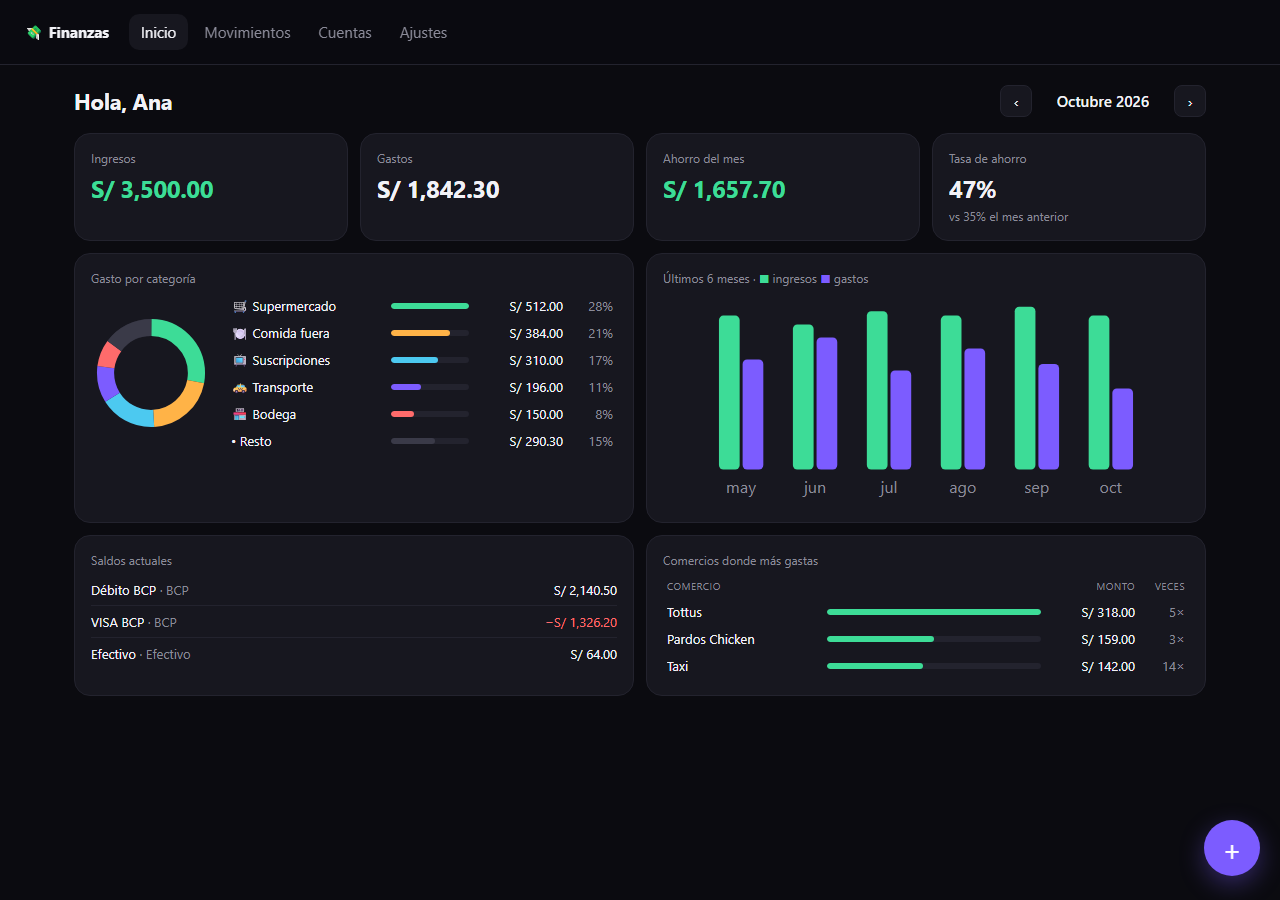
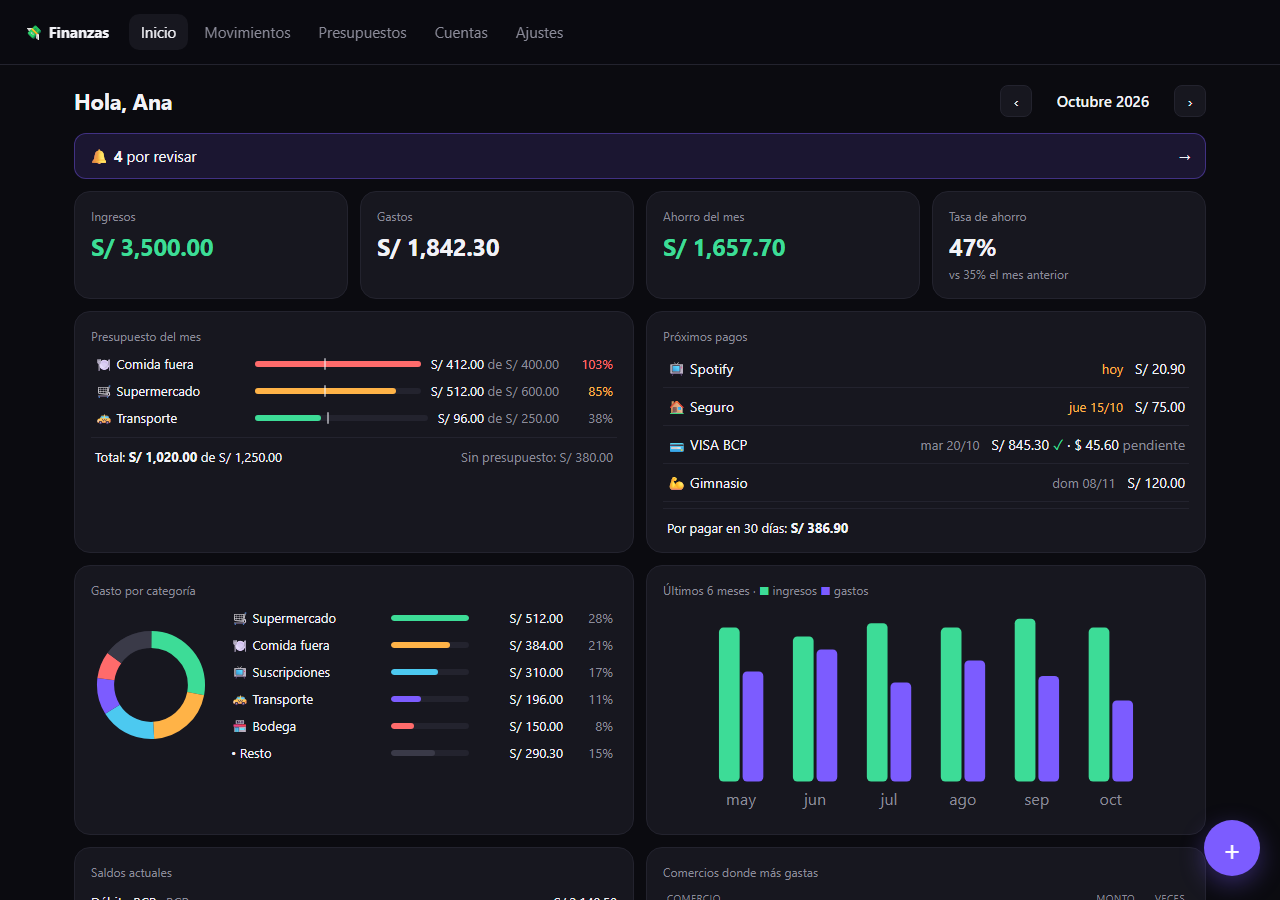
docs: plantilla, guías de instalación, Telegram y actualización, README y versión 0.7.0

diff --git a/tests/migracion.test.js b/tests/migracion.test.js
@@ -37,24 +37,24 @@ test('la migración es idempotente y no bloquea si no hace falta', () => {
 
 test('normalizarCuenta_ acepta varios números y marca de Yape', () => {
   const e = crearEntorno();
-  const c = e.llamar('normalizarCuenta_', { nombre: 'Gastos', tipo: 'debito', numeros: ' 1063,7373  1063 ', yape: true });
-  assert.strictEqual(c.numeros, '1063, 7373');
+  const c = e.llamar('normalizarCuenta_', { nombre: 'Gastos', tipo: 'debito', numeros: ' 5101,5202  5101 ', yape: true });
+  assert.strictEqual(c.numeros, '5101, 5202');
   assert.strictEqual(c.yape, true);
   assert.strictEqual(e.llamar('normalizarCuenta_', { nombre: 'E', tipo: 'efectivo' }).numeros, '');
-  assert.throws(() => e.interno('normalizarCuenta_', { nombre: 'X', tipo: 'debito', numeros: '1063, 73' }), /4 dígitos: "73"/);
-  assert.deepStrictEqual(e.llamar('numerosDe_', { numeros: '1063, 7373' }), ['1063', '7373']);
+  assert.throws(() => e.interno('normalizarCuenta_', { nombre: 'X', tipo: 'debito', numeros: '5101, 73' }), /4 dígitos: "73"/);
+  assert.deepStrictEqual(e.llamar('numerosDe_', { numeros: '5101, 5202' }), ['5101', '5202']);
 });
 
 test('guardarCuenta rechaza números repetidos entre cuentas y deja una sola cuenta de Yape', () => {
   const e = entornoInstalado();
   const deb = e.cuenta('Débito BCP');
-  e.llamar('guardarCuenta', { id: deb, nombre: 'Débito BCP', banco: 'BCP', tipo: 'debito', numeros: '1063, 7373', yape: true });
-  assert.throws(() => e.interno('guardarCuenta', { nombre: 'Otra', tipo: 'ahorro', numeros: '7373' }), /7373 ya está en la cuenta "Débito BCP"/);
-  const ahorro = e.llamar('guardarCuenta', { nombre: 'Ahorro BCP', tipo: 'ahorro', numeros: '3099', yape: true });
+  e.llamar('guardarCuenta', { id: deb, nombre: 'Débito BCP', banco: 'BCP', tipo: 'debito', numeros: '5101, 5202', yape: true });
+  assert.throws(() => e.interno('guardarCuenta', { nombre: 'Otra', tipo: 'ahorro', numeros: '5202' }), /5202 ya está en la cuenta "Débito BCP"/);
+  const ahorro = e.llamar('guardarCuenta', { nombre: 'Ahorro BCP', tipo: 'ahorro', numeros: '5303', yape: true });
   const cuentas = e.filas('Cuentas');
   assert.strictEqual(cuentas.find(c => c.id === deb).yape, false);
   assert.strictEqual(cuentas.find(c => c.id === ahorro.id).yape, true);
-  assert.doesNotThrow(() => e.interno('guardarCuenta', { id: deb, nombre: 'Débito BCP', tipo: 'debito', numeros: '1063, 7373' }));
+  assert.doesNotThrow(() => e.interno('guardarCuenta', { id: deb, nombre: 'Débito BCP', tipo: 'debito', numeros: '5101, 5202' }));
 });
 
 test('completarAsistente valida números repetidos y una sola cuenta de Yape', () => {

diff --git a/src/web/vista-cuentas.html b/src/web/vista-cuentas.html
@@ -26,7 +26,7 @@ function abrirFormCuenta(c) {
     campo('Nombre', '<input class="entrada" id="c-nombre" placeholder="Ej.: Débito BCP" value="' + esc(v.nombre) + '">') +
     '<div class="dos-col">' + campo('Banco', seleccion('c-banco', op.bancos, v.banco)) + campo('Tipo', seleccion('c-tipo', op.tiposCuenta, v.tipo, op.tiposCuenta.map(etiquetaTipo))) + '</div>' +
     '<div class="dos-col">' + campo('Moneda', seleccion('c-moneda', op.monedas, v.moneda)) +
-    campo('Números de cuenta o tarjeta', '<input class="entrada num" id="c-num" inputmode="numeric" placeholder="1063, 7373" value="' + esc(v.numeros) + '">') + '</div>' +
+    campo('Números de cuenta o tarjeta', '<input class="entrada num" id="c-num" inputmode="numeric" placeholder="5101, 5202" value="' + esc(v.numeros) + '">') + '</div>' +
     campo('Saldo inicial (negativo si es deuda de tarjeta)', '<input class="entrada num" id="c-saldo" inputmode="decimal" value="' + esc(v.saldo_inicial) + '">') +
     '<label class="check"><input type="checkbox" id="c-yape"' + (v.yape ? ' checked' : '') + '> Yape sale y entra de esta cuenta</label>' +
     (c ? '<label class="check"><input type="checkbox" id="c-activa"' + (v.activa ? ' checked' : '') + '> Cuenta activa</label>' : '') +

diff --git a/src/web/vista-asistente.html b/src/web/vista-asistente.html
@@ -87,7 +87,7 @@ VISTAS.asistente = async function (cont) {
         campo('Nombre', '<input class="entrada" id="w-c-nombre" placeholder="Ej.: Débito BCP">') +
         '<div class="dos-col">' + campo('Banco', seleccion('w-c-banco', op.bancos, 'BCP')) + campo('Tipo', seleccion('w-c-tipo', op.tiposCuenta, 'debito', op.tiposCuenta.map(etiquetaTipo))) + '</div>' +
         '<div class="dos-col">' + campo('Moneda', seleccion('w-c-moneda', op.monedas, 'PEN')) +
-        campo('Números de cuenta o tarjeta', '<input class="entrada num" id="w-c-num" inputmode="numeric" placeholder="1063, 7373">') + '</div>' +
+        campo('Números de cuenta o tarjeta', '<input class="entrada num" id="w-c-num" inputmode="numeric" placeholder="1234, 5678">') + '</div>' +
         campo('Saldo actual (negativo si es deuda de tarjeta)', '<input class="entrada num" id="w-c-saldo" inputmode="decimal" placeholder="0.00">') +
         '<label class="check"><input type="checkbox" id="w-c-yape"> Yape sale y entra de esta cuenta</label>' +
         '<button type="button" class="boton" id="w-c-agregar">+ Agregar cuenta</button>' +

diff --git a/src/core/catalogos.js b/src/core/catalogos.js
@@ -50,7 +50,7 @@ function normalizarCategoria_(datos, existentes, idActual) {
   };
 }
 
-// "1063,7373  1063" → "1063, 7373". Cada número: últimos 4 dígitos de una cuenta o tarjeta.
+// "5101,5202  5101" → "5101, 5202". Cada número: últimos 4 dígitos de una cuenta o tarjeta.
 function normalizarNumeros_(valor) {
   const partes = String(valor == null ? '' : valor).split(/[\s,;]+/).filter(Boolean);
   partes.forEach(n => {

diff --git a/src/core/version.js b/src/core/version.js
@@ -1,5 +1,5 @@
 // Versión de esta copia de la app. Una prueba exige que sea la de package.json.
-const VERSION_APP = '0.6.0';
+const VERSION_APP = '0.7.0';
 const URL_REPO = 'https://github.com/BrunoRioja/finanzas-personales';
 
 function partesVersion_(v) {

diff --git a/docs/superpowers/plans/2026-10-13-fase-2-ingesta-correos.md b/docs/superpowers/plans/2026-10-13-fase-2-ingesta-correos.md
@@ -68,7 +68,7 @@
 - Crear: `tests/migracion.test.js`
 
 **Interfaces:**
-- Produce: `VERSION_ESQUEMA = 2`; `RENOMBRES_ESQUEMA = { Cuentas: { ultimos4: 'numeros' } }`; `migrarEsquema_(libro)`; `migrarSiHaceFalta_() → bool` (sin bloqueo); `asegurarEsquema_()` (toma bloqueo solo si hay que migrar); `estadoActual_() → {instalado, modoDemo}` (sin migrar); `estadoInstalacion()` (migra y luego `estadoActual_`); `normalizarNumeros_(valor) → '1063, 7373'`; `numerosDe_(cuenta) → ['1063','7373']`; `validarNumerosUnicos_(cuenta, otras)` (lanza `El número N ya está en la cuenta "X".`); `normalizarCuenta_` devuelve `{nombre, banco, tipo, moneda, saldo_inicial, numeros, activa, yape}`. En el navegador: `textoNumeros(numeros) → ' · •••• 1063 · •••• 7373'`.
+- Produce: `VERSION_ESQUEMA = 2`; `RENOMBRES_ESQUEMA = { Cuentas: { ultimos4: 'numeros' } }`; `migrarEsquema_(libro)`; `migrarSiHaceFalta_() → bool` (sin bloqueo); `asegurarEsquema_()` (toma bloqueo solo si hay que migrar); `estadoActual_() → {instalado, modoDemo}` (sin migrar); `estadoInstalacion()` (migra y luego `estadoActual_`); `normalizarNumeros_(valor) → '5101, 5202'`; `numerosDe_(cuenta) → ['5101','5202']`; `validarNumerosUnicos_(cuenta, otras)` (lanza `El número N ya está en la cuenta "X".`); `normalizarCuenta_` devuelve `{nombre, banco, tipo, moneda, saldo_inicial, numeros, activa, yape}`. En el navegador: `textoNumeros(numeros) → ' · •••• 5101 · •••• 5202'`.
 
 - [ ] **Paso 1: Actualizar pruebas existentes al esquema v2**
 
@@ -130,24 +130,24 @@ test('la migración es idempotente y no bloquea si no hace falta', () => {
 
 test('normalizarCuenta_ acepta varios números y marca de Yape', () => {
   const e = crearEntorno();
-  const c = e.llamar('normalizarCuenta_', { nombre: 'Gastos', tipo: 'debito', numeros: ' 1063,7373  1063 ', yape: true });
-  assert.strictEqual(c.numeros, '1063, 7373');
+  const c = e.llamar('normalizarCuenta_', { nombre: 'Gastos', tipo: 'debito', numeros: ' 5101,5202  5101 ', yape: true });
+  assert.strictEqual(c.numeros, '5101, 5202');
   assert.strictEqual(c.yape, true);
   assert.strictEqual(e.llamar('normalizarCuenta_', { nombre: 'E', tipo: 'efectivo' }).numeros, '');
-  assert.throws(() => e.interno('normalizarCuenta_', { nombre: 'X', tipo: 'debito', numeros: '1063, 73' }), /4 dígitos: "73"/);
-  assert.deepStrictEqual(e.llamar('numerosDe_', { numeros: '1063, 7373' }), ['1063', '7373']);
+  assert.throws(() => e.interno('normalizarCuenta_', { nombre: 'X', tipo: 'debito', numeros: '5101, 73' }), /4 dígitos: "73"/);
+  assert.deepStrictEqual(e.llamar('numerosDe_', { numeros: '5101, 5202' }), ['5101', '5202']);
 });
 
 test('guardarCuenta rechaza números repetidos entre cuentas y deja una sola cuenta de Yape', () => {
   const e = entornoInstalado();
   const deb = e.cuenta('Débito BCP');
-  e.llamar('guardarCuenta', { id: deb, nombre: 'Débito BCP', banco: 'BCP', tipo: 'debito', numeros: '1063, 7373', yape: true });
-  assert.throws(() => e.interno('guardarCuenta', { nombre: 'Otra', tipo: 'ahorro', numeros: '7373' }), /7373 ya está en la cuenta "Débito BCP"/);
-  const ahorro = e.llamar('guardarCuenta', { nombre: 'Ahorro BCP', tipo: 'ahorro', numeros: '3099', yape: true });
+  e.llamar('guardarCuenta', { id: deb, nombre: 'Débito BCP', banco: 'BCP', tipo: 'debito', numeros: '5101, 5202', yape: true });
+  assert.throws(() => e.interno('guardarCuenta', { nombre: 'Otra', tipo: 'ahorro', numeros: '5202' }), /5202 ya está en la cuenta "Débito BCP"/);
+  const ahorro = e.llamar('guardarCuenta', { nombre: 'Ahorro BCP', tipo: 'ahorro', numeros: '5303', yape: true });
   const cuentas = e.filas('Cuentas');
   assert.strictEqual(cuentas.find(c => c.id === deb).yape, false);
   assert.strictEqual(cuentas.find(c => c.id === ahorro.id).yape, true);
-  assert.doesNotThrow(() => e.interno('guardarCuenta', { id: deb, nombre: 'Débito BCP', tipo: 'debito', numeros: '1063, 7373' }));
+  assert.doesNotThrow(() => e.interno('guardarCuenta', { id: deb, nombre: 'Débito BCP', tipo: 'debito', numeros: '5101, 5202' }));
 });
 
 test('completarAsistente valida números repetidos y una sola cuenta de Yape', () => {
@@ -273,7 +273,7 @@ Agregar al final del archivo:
 
 ```js
 
-// "1063,7373  1063" → "1063, 7373". Cada número: últimos 4 dígitos de una cuenta o tarjeta.
+// "5101,5202  5101" → "5101, 5202". Cada número: últimos 4 dígitos de una cuenta o tarjeta.
 function normalizarNumeros_(valor) {
   const partes = String(valor == null ? '' : valor).split(/[\s,;]+/).filter(Boolean);
   partes.forEach(n => {
@@ -371,13 +371,13 @@ function textoNumeros(numeros) {
 En `src/web/vista-cuentas.html` reemplazar:
 - `esc(c.banco + ' · ' + etiquetaTipo(c.tipo) + ' · ' + c.moneda + (c.ultimos4 ? ' · •••• ' + c.ultimos4 : ''))` → `esc(c.banco + ' · ' + etiquetaTipo(c.tipo) + ' · ' + c.moneda + textoNumeros(c.numeros) + (c.yape ? ' · Yape' : ''))`
 - `ultimos4: '', saldo_inicial: 0, activa: true };` → `numeros: '', saldo_inicial: 0, activa: true, yape: false };`
-- `campo('Últimos 4 dígitos', '<input class="entrada num" id="c-ult" inputmode="numeric" maxlength="4" value="' + esc(v.ultimos4) + '">') + '</div>' +` → `campo('Números de cuenta o tarjeta', '<input class="entrada num" id="c-num" inputmode="numeric" placeholder="1063, 7373" value="' + esc(v.numeros) + '">') + '</div>' +`
+- `campo('Últimos 4 dígitos', '<input class="entrada num" id="c-ult" inputmode="numeric" maxlength="4" value="' + esc(v.ultimos4) + '">') + '</div>' +` → `campo('Números de cuenta o tarjeta', '<input class="entrada num" id="c-num" inputmode="numeric" placeholder="5101, 5202" value="' + esc(v.numeros) + '">') + '</div>' +`
 - `(c ? '<label class="check"><input type="checkbox" id="c-activa"` → `'<label class="check"><input type="checkbox" id="c-yape"' + (v.yape ? ' checked' : '') + '> Yape sale y entra de esta cuenta</label>' +\n    (c ? '<label class="check"><input type="checkbox" id="c-activa"`
 - `tipo: $('#c-tipo', caja).value, moneda: $('#c-moneda', caja).value, ultimos4: $('#c-ult', caja).value,` → `tipo: $('#c-tipo', caja).value, moneda: $('#c-moneda', caja).value, numeros: $('#c-num', caja).value, yape: $('#c-yape', caja).checked,`
 
 En `src/web/vista-asistente.html` reemplazar:
 - `esc(c.banco + ' · ' + etiquetaTipo(c.tipo) + ' · ' + c.moneda + (c.ultimos4 ? ' · •••• ' + c.ultimos4 : ''))` → `esc(c.banco + ' · ' + etiquetaTipo(c.tipo) + ' · ' + c.moneda + textoNumeros(c.numeros) + (c.yape ? ' · Yape' : ''))`
-- `campo('Últimos 4 dígitos', '<input class="entrada num" id="w-c-ult" inputmode="numeric" maxlength="4">') + '</div>' +` → `campo('Números de cuenta o tarjeta', '<input class="entrada num" id="w-c-num" inputmode="numeric" placeholder="1063, 7373">') + '</div>' +`
+- `campo('Últimos 4 dígitos', '<input class="entrada num" id="w-c-ult" inputmode="numeric" maxlength="4">') + '</div>' +` → `campo('Números de cuenta o tarjeta', '<input class="entrada num" id="w-c-num" inputmode="numeric" placeholder="5101, 5202">') + '</div>' +`
 - `campo('Saldo actual (negativo si es deuda de tarjeta)', '<input class="entrada num" id="w-c-saldo" inputmode="decimal" placeholder="0.00">') +` → `campo('Saldo actual (negativo si es deuda de tarjeta)', '<input class="entrada num" id="w-c-saldo" inputmode="decimal" placeholder="0.00">') +\n        '<label class="check"><input type="checkbox" id="w-c-yape"> Yape sale y entra de esta cuenta</label>' +`
 - `moneda: $('#w-c-moneda').value, ultimos4: $('#w-c-ult').value.trim(), saldo_inicial: $('#w-c-saldo').value,` → `moneda: $('#w-c-moneda').value, numeros: $('#w-c-num').value.trim(), saldo_inicial: $('#w-c-saldo').value, yape: $('#w-c-yape').checked,`
 - `if (nueva.ultimos4 && !/^\d{4}$/.test(nueva.ultimos4)) { aviso('Los últimos 4 dígitos deben ser 4 números.', true); return; }` → `if (nueva.numeros && !/^\d{4}([\s,]+\d{4})*$/.test(nueva.numeros)) { aviso('Cada número debe tener 4 dígitos, separados por coma.', true); return; }\n      if (nueva.yape && datos.cuentas.some(c => c.yape)) { aviso('Solo una cuenta puede ser la de Yape.', true); return; }`
@@ -517,8 +517,8 @@ Expected: `"error": null`; `texto` contiene `•••• 4444 · •••• 1
 Run: `node tests/ui/ver.js "mostrar('cuentas'); setTimeout(function(){document.getElementById('nueva-cuenta').click()},300)" modal`
 Expected: `"error": null`; `texto` contiene `Números de cuenta o tarjeta` y `Yape sale y entra de esta cuenta`.
 
-Run: `node tests/ui/ver.js "document.body.classList.add('sin-instalar'); mostrar('asistente'); setTimeout(function(){ document.getElementById('w-nombre').value='Ana'; document.getElementById('w-sig').click(); setTimeout(function(){ document.getElementById('w-c-nombre').value='Débito BCP'; document.getElementById('w-c-num').value='1063, 7373'; document.getElementById('w-c-yape').checked=true; document.getElementById('w-c-agregar').click(); },100)},300)" vista`
-Expected: `"error": null`; `texto` contiene `•••• 1063 · •••• 7373 · Yape`.
+Run: `node tests/ui/ver.js "document.body.classList.add('sin-instalar'); mostrar('asistente'); setTimeout(function(){ document.getElementById('w-nombre').value='Ana'; document.getElementById('w-sig').click(); setTimeout(function(){ document.getElementById('w-c-nombre').value='Débito BCP'; document.getElementById('w-c-num').value='5101, 5202'; document.getElementById('w-c-yape').checked=true; document.getElementById('w-c-agregar').click(); },100)},300)" vista`
+Expected: `"error": null`; `texto` contiene `•••• 5101 · •••• 5202 · Yape`.
 
 - [ ] **Paso 14: Pruebas, lint y commit**
 
@@ -3016,7 +3016,7 @@ En `docs/privacidad.md`, reemplazar la sección "Próximas versiones" por:
 En `docs/instalacion.md`, después del paso 6 de la vía desarrollador agregar:
 
 ```markdown
-7. **Lectura de correos (opcional):** en **Cuentas**, pon en cada cuenta los últimos 4 dígitos de su número y de su tarjeta (por ejemplo `1063, 7373`) y marca la cuenta de la que sale Yape. Luego en **Ajustes → Lectura de correos** elige la frecuencia y toca **Guardar**: Google pedirá permiso para leer y etiquetar tus correos.
+7. **Lectura de correos (opcional):** en **Cuentas**, pon en cada cuenta los últimos 4 dígitos de su número y de su tarjeta (por ejemplo `5101, 5202`) y marca la cuenta de la que sale Yape. Luego en **Ajustes → Lectura de correos** elige la frecuencia y toca **Guardar**: Google pedirá permiso para leer y etiquetar tus correos.
 ```
 
 En `CHANGELOG.md`, agregar arriba de `## [0.1.0]`:
@@ -3058,7 +3058,7 @@ Expected: `Despliegue actualizado: AKfycbyBLby7…` (misma URL).
 - [ ] **Paso 5: Activación real con Bruno**
 
 Pedir a Bruno que abra la app (Google pedirá **autorizar de nuevo** por los permisos nuevos de Gmail y triggers) y:
-1. **Cuentas:** renombrar y completar: "Débito BCP" (Cuenta digital) → números `1063, 7373`, marcar Yape; "Ahorro BCP" (Clásica) → `3099`, sin Yape; "VISA BCP" → `8754`. Corregir los nombres invertidos de la fase 1 si aplica.
+1. **Cuentas:** renombrar y completar: "Débito BCP" (Cuenta digital) → números `5101, 5202`, marcar Yape; "Ahorro BCP" (Clásica) → `5303`, sin Yape; "VISA BCP" → `5404`. Corregir los nombres invertidos de la fase 1 si aplica.
 2. **Ajustes → Lectura de correos:** frecuencia "Cada 5 minutos", etiquetar activado, **Guardar**; luego **Importar desde la fecha** con `2026-10-01` (repetir si dice "faltan N").
 3. Revisar la franja "por revisar" en Inicio y la bandeja: categorizar algunos con "Recordar", dividir una compra.
 4. Confirmar en Gmail que los correos procesados tienen la etiqueta `Finanzas/Procesado`.

diff --git a/README.md b/README.md
@@ -3,27 +3,41 @@
 [![CI](https://github.com/BrunoRioja/finanzas-personales/actions/workflows/ci.yml/badge.svg)](https://github.com/BrunoRioja/finanzas-personales/actions/workflows/ci.yml)
 ![Licencia MIT](https://img.shields.io/badge/licencia-MIT-7c5cff)
 
-> **EN —** Self-hosted personal finance app built on Google Apps Script + Google Sheets. Each person runs their own copy in their own Google account: no servers, no shared data. Roadmap: bank-notification emails parsed automatically, a Telegram bot that only asks about what it doesn't know, and Gemini for voice notes and receipts.
+> **EN —** Self-hosted personal finance app built on Google Apps Script + Google Sheets. Each person runs their own copy in their own Google account: no servers, no shared data. It reads bank notification emails (BCP, Yape), has a Telegram bot that only asks about what it doesn't recognize, tracks monthly budgets and upcoming card and fixed payments. Install it with one "Make a copy" click. Gemini (receipts) is future work.
 
-App de finanzas personales que vive en **tu propia cuenta de Google**. Registra gastos, ingresos y transferencias, y muestra en un dashboard en qué se va tu dinero — en el celular y en la laptop.
+App de finanzas personales que vive en **tu propia cuenta de Google**: lee los correos de tu banco, te pregunta por Telegram solo lo que no reconoce y te muestra en qué se va tu dinero, cuánto llevas de tu presupuesto y qué pagos vienen.
+
+**[📄 Hacer una copia](https://docs.google.com/spreadsheets/d/ID_PLANTILLA/copy)** · 4 pasos, sin programar: [cómo instalarla](docs/instalacion.md)
 
 | Laptop | Celular |
 |---|---|
-| ![Dashboard en laptop](docs/img/dashboard-laptop.png) | ![Dashboard en celular](docs/img/dashboard-movil.png) |
+| ![Inicio en laptop](docs/img/dashboard-laptop.png) | ![Inicio en celular](docs/img/dashboard-movil.png) |
 
-## Qué hace hoy (v0.6)
+## Qué hace (v0.7)
 
-- **Lectura automática de correos** del BCP y Yape (consumos con débito y crédito en S/ y $, PLIN, yapeos enviados y recibidos, transferencias entre cuentas, pago de tarjeta, pago de servicios), cada 5 minutos o con la frecuencia que elijas.
-- **Bandeja "Por revisar"**: lo que la app no sabe categorizar se resuelve con un toque y queda como regla para la próxima vez.
-- **Bot de Telegram:** te pregunta solo por las compras que no reconoce (un toque para elegir la categoría y recordarla), registra lo que escribes (`taxi 12 yape`), responde `/hoy`, `/mes`, `/pagos` y `/deshacer`, y te manda un resumen a las 21:00 los días con movimientos.
-- **Presupuestos por categoría:** pones un monto a las categorías que quieres controlar (con lo que gastaste el mes pasado como referencia), el Inicio muestra cuánto llevas contra lo planeado y el bot te avisa al llegar al 80 % y al 100 %.
-- **Próximos pagos:** lee el correo del estado de cuenta VISA del BCP (total, mínimo y último día de pago en S/ y $), sabe qué parte ya pagaste y te recuerda por Telegram 3 días antes y el mismo día, junto con tus pagos fijos (suscripciones, gimnasio, alquiler). Bloque en el Inicio y comando `/pagos`.
-- **Dividir** una compra entre varias categorías (supermercado + aseo + ropa).
-- **Dashboard:** ingresos, gastos, ahorro y tasa de ahorro del mes; gasto por categoría; tendencia de 6 meses; saldos por cuenta; comercios donde más gastas.
-- **Movimientos:** registro rápido desde el botón **+**, filtros por mes, cuenta, categoría y texto. Gastos en soles y dólares.
-- **Cuentas y categorías** configurables; tarjetas de crédito con deuda en negativo.
-- **Asistente de instalación** que pregunta tus bancos, cuentas y categorías.
-- **Modo demo** con datos ficticios en una hoja aparte.
+- **Lee los correos de tu banco** (BCP y Yape): consumos con débito y crédito en S/ y $, PLIN, yapeos enviados y recibidos, transferencias, pagos de tarjeta y de servicios. Lo que no sabe categorizar va a una bandeja "Por revisar" y se resuelve con un toque.
+- **Bot de Telegram:** te pregunta solo por las compras que no reconoce, registra lo que escribes (`taxi 12 yape`), responde `/hoy`, `/mes`, `/pagos` y `/deshacer`, y te manda un resumen al final del día.
+- **Presupuestos por categoría:** con lo del mes pasado como referencia; el Inicio muestra cuánto llevas y el bot te avisa al 80 % y al 100 %.
+- **Próximos pagos:** lee el estado de cuenta de tu tarjeta (total, mínimo y fecha límite en S/ y $), sabe qué parte ya pagaste y te recuerda tus pagos fijos y la tarjeta 3 días antes y el mismo día.
+- **Dashboard y movimientos:** ingresos, gastos, ahorro y tasa de ahorro; gasto por categoría; tendencia de 6 meses; saldos por cuenta; comercios donde más gastas; dividir una compra entre categorías.
+- **Instalación con "Hacer una copia"**, actualización importando tus datos y **modo demo** con datos ficticios.
+
+<img src="docs/img/presupuestos-movil.png" alt="Presupuestos y pagos fijos" width="320">
+
+## Cómo funciona
+
+```mermaid
+flowchart LR
+  Gmail["Gmail<br/>(correos del banco)"] -->|trigger de lectura| Lectores["Lectores por banco<br/>(funciones puras)"]
+  Lectores --> Hoja[("Tu Google Sheet")]
+  App["App web<br/>(solo tú)"] <--> Hoja
+  Telegram -->|webhook| Receptor["Receptor público<br/>(sin datos)"]
+  Receptor -->|biblioteca| Bot["Lógica del bot"]
+  Bot <--> Hoja
+  Bot -->|avisos, resumen, recordatorios| Telegram
+```
+
+Todo corre en tu cuenta de Google: Apps Script lee tus correos, guarda en tu hoja y publica la app solo para ti. El único punto público es el receptor del bot, que no guarda nada y solo acepta mensajes con un secreto.
 
 ## Hoja de ruta
 
@@ -35,11 +49,12 @@ App de finanzas personales que vive en **tu propia cuenta de Google**. Registra 
 | v0.4 | Gemini: foto de boleta para dividir compras (a decidir con el uso real) | ⏸ |
 | v0.5 | Presupuestos por categoría y avisos por Telegram | ✅ |
 | v0.6 | Próximos pagos: estado de cuenta de la tarjeta y pagos recurrentes | ✅ |
-| v0.7 | Plantilla "Hacer una copia" y pulido del README | ⏳ |
+| v0.7 | Plantilla "Hacer una copia" y pulido del README | ✅ |
 
 ## Instalación
 
-Ver [docs/instalacion.md](docs/instalacion.md). Resumen para desarrolladores:
+- **Sin programar (recomendado):** [Hacer una copia](https://docs.google.com/spreadsheets/d/ID_PLANTILLA/copy) y seguir los 4 pasos de [docs/instalacion.md](docs/instalacion.md). El bot de Telegram es opcional: [docs/telegram.md](docs/telegram.md). Para actualizar: [docs/actualizar.md](docs/actualizar.md).
+- **Para desarrolladores (clasp):**
 
 ```bash
 git clone https://github.com/BrunoRioja/finanzas-personales.git
@@ -62,14 +77,22 @@ npm run deploy     # sube el código y publica la web app (solo tú puedes abrir
 - **Gmail con el permiso mínimo útil:** `gmail.modify` solo para buscar, leer y etiquetar; la app recuerda qué correos ya leyó por su id, no por la etiqueta.
 - **Bot sin abrir la app:** un receptor público mínimo recibe el webhook de Telegram y usa la app como biblioteca; la app y los datos siguen siendo "solo yo" ([docs/arquitectura.md](docs/arquitectura.md)).
 
+- **Copia congelada en vez de biblioteca compartida:** cada copia ejecuta su propio código; nadie (ni el autor) puede cambiarlo desde afuera. Las versiones nuevas se buscan con un botón en Ajustes y se instalan copiando la plantilla e importando los datos.
+- **Importación por encabezados:** una hoja de cualquier versión anterior se importa leyendo cada columna por su nombre; lo que no existía queda vacío y la migración completa el resto.
+
 Más detalle en [docs/arquitectura.md](docs/arquitectura.md) y el diseño completo en [docs/superpowers/specs](docs/superpowers/specs/2026-10-13-app-finanzas-design.md).
 
-## Desarrollo
+## Calidad y desarrollo
+
+- **Pruebas:** unas 250 pruebas con `node:test` sobre un arnés (`tests/harness.js`) que simula Sheets, Gmail, Telegram, triggers, propiedades y caché, así que todo el flujo (correo → movimiento → aviso por Telegram) se prueba sin tocar Google.
+- **Correos reales anonimizados** como casos de prueba de cada lector.
+- **CI** en GitHub Actions (pruebas + ESLint) en cada push.
+- **Interfaz revisada en Chrome** a 390 px y 1280 px con datos simulados.
 
 ```bash
-npm test          # pruebas (node:test)
+npm test          # pruebas
 npm run lint      # ESLint
-npm run ui -- "mostrar('movimientos')" vista captura.png 420   # revisar la interfaz en Chrome con datos simulados
+npm run ui -- "mostrar('movimientos')" vista captura.png 420   # captura de la interfaz con datos simulados
 ```
 
 ## Privacidad

diff --git a/docs/superpowers/specs/2026-10-13-fase-2-ingesta-correos-design.md b/docs/superpowers/specs/2026-10-13-fase-2-ingesta-correos-design.md
@@ -27,9 +27,9 @@ Fuera de alcance (fases siguientes): bot de Telegram (3), Gemini como respaldo d
 
 | Cuenta en la app | Números que aparecen en los correos | Uso |
 |---|---|---|
-| Débito BCP (Cuenta digital) | `1063` (cuenta) y `7373` (tarjeta de débito) | Gastos diarios, Yape, pagos virtuales, servicios. Saldo bajo. |
-| Ahorro BCP (Clásica) | `3099` | Ahorro; solo transfiere a la digital. |
-| VISA BCP | `8754` (VISA Oro) | Consumos en S/ y $. |
+| Débito BCP (Cuenta digital) | `5101` (cuenta) y `5202` (tarjeta de débito) | Gastos diarios, Yape, pagos virtuales, servicios. Saldo bajo. |
+| Ahorro BCP (Clásica) | `5303` | Ahorro; solo transfiere a la digital. |
+| VISA BCP | `5404` (VISA Oro) | Consumos en S/ y $. |
 
 Bruno corrige los nombres y números de sus cuentas desde la vista Cuentas tras desplegar la fase 2 (hoy los nombres "Débito BCP"/"Ahorro BCP" están invertidos respecto al uso).
 
@@ -39,7 +39,7 @@ Bruno corrige los nombres y números de sus cuentas desde la vista Cuentas tras 
 
 | Hoja | Cambio |
 |---|---|
-| Cuentas | `ultimos4` → **`numeros`**: lista de números de 4 dígitos separados por coma (`"1063, 7373"`). Nueva columna **`yape`** (booleano): la cuenta de la que sale/entra Yape; como máximo una. |
+| Cuentas | `ultimos4` → **`numeros`**: lista de números de 4 dígitos separados por coma (`"5101, 5202"`). Nueva columna **`yape`** (booleano): la cuenta de la que sale/entra Yape; como máximo una. |
 | Movimientos | Sin columnas nuevas. `origen = 'gmail'` para lo importado; `estado = 'por_revisar'` cuando falta categoría o cuenta; `ref_externa = 'gmail:<id del mensaje>'`. |
 | Reglas | Se usan: `patron` (texto normalizado), `categoria_id`, `creada_por` (`usuario`), `usos`. |
 | **Pendientes** (nueva) | Correos bancarios que ningún lector entendió: `id, gmail_id, fecha, remitente, asunto, resumen, estado (pendiente/descartado)`. |
@@ -68,14 +68,14 @@ Remitentes aceptados (comparación exacta, en minúsculas): `notificaciones@noti
 
 | Tipo de correo (asunto / frase clave) | Resultado |
 |---|---|
-| "Realizaste un consumo con tu Tarjeta de Débito/Crédito BCP" — frase `Realizaste un consumo de S/ 89.30 con tu Tarjeta de … BCP en <COMERCIO>.` + `Número de Tarjeta … ****7373` | gasto, `numero_origen` = últimos 4 de la tarjeta, comercio |
+| "Realizaste un consumo con tu Tarjeta de Débito/Crédito BCP" — frase `Realizaste un consumo de S/ 89.30 con tu Tarjeta de … BCP en <COMERCIO>.` + `Número de Tarjeta … ****5202` | gasto, `numero_origen` = últimos 4 de la tarjeta, comercio |
 | Igual con `$ 23.60` | gasto en USD (tc = último conocido, se aplica al guardar) |
 | Comercio `PLIN-<NOMBRE>` | gasto, comercio = `<NOMBRE>` (sin el prefijo) |
 | yape.pe "¡Acabas de yapear exitosamente!" — `Monto de yapeo S/ 11.00`, `Nombre del Beneficiario <NOMBRE>` | gasto, `usa_yape`, comercio = beneficiario |
 | "Constancia de recepción de Yapeo" — `Recibiste un yapeo de S/ 200.00 de <NOMBRE>.` | ingreso, `usa_yape`, comercio = remitente |
-| "Constancia de Transferencia Entre mis Cuentas" — `Monto transferido S/ 290.26`, `Desde … **** 3099`, `Enviado a … **** 1063` | transferencia 3099 → 1063 |
-| "Constancia de Pago de Tarjeta de Crédito Propia" — `Monto pagado $ 105.52`, `Tipo de cambio S/ 3.4770`, `Pagado a VISA … **** 8754`, `Desde … **** 1063` | transferencia 1063 → 8754 en la moneda pagada, con `tc` del correo; actualiza `Config.ultimo_tc` |
-| "CONSTANCIA DE PAGO DE SERVICIO" — `Empresa: CLARO`, `Cuenta de origen: … **** 1063`, `Monto total: S/ 24.47` | gasto, comercio = empresa |
+| "Constancia de Transferencia Entre mis Cuentas" — `Monto transferido S/ 290.26`, `Desde … **** 5303`, `Enviado a … **** 5101` | transferencia 5303 → 5101 |
+| "Constancia de Pago de Tarjeta de Crédito Propia" — `Monto pagado $ 105.52`, `Tipo de cambio S/ 3.4770`, `Pagado a VISA … **** 5404`, `Desde … **** 5101` | transferencia 5101 → 5404 en la moneda pagada, con `tc` del correo; actualiza `Config.ultimo_tc` |
+| "CONSTANCIA DE PAGO DE SERVICIO" — `Empresa: CLARO`, `Cuenta de origen: … **** 5101`, `Monto total: S/ 24.47` | gasto, comercio = empresa |
 | Estado de cuenta, encuestas, publicidad, otros asuntos | `null` → se ignora (no es pendiente) |
 | Remitente bancario aceptado + asunto de operación reconocido pero la frase/montos no se pudieron leer | va a **Pendientes** |
 

diff --git a/docs/instalacion.md b/docs/instalacion.md
@@ -40,7 +40,7 @@ Requisitos: Node 20 o superior, una cuenta de Google y la [API de Apps Script ac
 5. Abre la URL. Google pedirá autorizar el acceso a tus hojas (es tu propio script). Luego aparece el **asistente**: tu nombre, tipo de cambio, tus cuentas y categorías.
 
 6. Guarda la URL en la pantalla de inicio del celular (Chrome → menú → "Agregar a la pantalla principal").
-7. **Lectura de correos (opcional):** en **Cuentas**, pon en cada cuenta los últimos 4 dígitos de su número y de su tarjeta (por ejemplo `1063, 7373`) y marca la cuenta de la que sale Yape. Luego en **Ajustes → Lectura de correos** elige la frecuencia y toca **Guardar**: Google pedirá permiso para leer y etiquetar tus correos.
+7. **Lectura de correos (opcional):** en **Cuentas**, pon en cada cuenta los últimos 4 dígitos de su número y de su tarjeta (por ejemplo `5101, 5202`) y marca la cuenta de la que sale Yape. Luego en **Ajustes → Lectura de correos** elige la frecuencia y toca **Guardar**: Google pedirá permiso para leer y etiquetar tus correos.
 
 ### Actualizar a una versión nueva
 
@@ -65,9 +65,17 @@ Si la versión nueva pide permisos nuevos (lo dice el CHANGELOG), ejecuta una ve
 
 El receptor usa siempre el último código de la app: después de un `npm run deploy` no hay que volver a desplegarlo.
 
-## Vía plantilla ("Hacer una copia") — llega en v0.5
+## Vía plantilla ("Hacer una copia") — recomendada
 
-Para quien no quiera usar la terminal: una Sheet plantilla con el código incluido, que se copia con un clic.
+No necesitas programar ni instalar nada. Todo queda en tu cuenta de Google.
+
+1. **Haz tu copia.** Abre [Hacer una copia](https://docs.google.com/spreadsheets/d/ID_PLANTILLA/copy) y toca **Hacer una copia**. Se crea en tu Drive una hoja con el código de la app incluido.
+2. **Publica tu app.** En tu copia, abre el menú **💸 Finanzas → Cómo publicar mi app** (si no aparece, recarga la hoja) y sigue los pasos: *Extensiones → Apps Script → Implementar → Nueva implementación → App web → Ejecutar como: Yo → Quién tiene acceso: Solo yo → Implementar*.
+   - Google pedirá permisos. Verás **"Google no verificó esta app"**: aparece porque el código es tuyo y no pasó por la verificación de Google, no porque sea peligroso. Toca **Configuración avanzada → Ir a … (no seguro)** y acepta. Los permisos son: tu hoja (guardar los datos), Gmail (leer los correos del banco y etiquetarlos, nunca borrar ni enviar), triggers (leer correos y recordarte pagos solos) y conexiones externas (Telegram y saber si hay una versión nueva).
+3. **Abre tu app** (menú **💸 Finanzas → Abrir mi app**, o la URL que copiaste) y completa el asistente: tu nombre, tus cuentas y tus categorías. ¿Ya usabas la app? Toca **Importar mis datos** ([cómo actualizar](actualizar.md)).
+4. **Activa la lectura de correos** en **Ajustes → Lectura de correos** (opcional: el bot de Telegram con [docs/telegram.md](telegram.md)).
+
+Guarda la URL de tu app en favoritos o en la pantalla de inicio del celular.
 
 ## Probar sin datos reales
 

diff --git a/docs/telegram.md b/docs/telegram.md
@@ -1,0 +1,13 @@
+# Bot de Telegram (vía plantilla)
+
+El bot vive en un segundo proyecto pequeño, el **receptor**: recibe los mensajes de Telegram y se los pasa a tu app, que sigue siendo "solo tú". Toma unos 10 minutos. (Con clasp, usa `npm run deploy:receptor`: ver [instalacion.md](instalacion.md).)
+
+1. **Crea el bot.** En Telegram abre **@BotFather**, envía `/newbot`, elige un nombre y un usuario terminado en `bot`, y copia el **token**. No lo compartas con nadie.
+2. **Copia el ID de tu app.** En tu hoja: *Extensiones → Apps Script → ⚙ Configuración del proyecto* → copia el **ID de la secuencia de comandos**.
+3. **Crea el receptor.** Abre [script.new](https://script.new), ponle de nombre "Finanzas · receptor", borra el contenido de `Código.gs` y pega el de [`receptor/Receptor.js`](../receptor/Receptor.js).
+4. **Conecta tu app como biblioteca.** En el receptor: *Bibliotecas → +* → pega el ID del paso 2 → **Buscar** → versión **HEAD (modo de desarrollo)** → identificador `Finanzas` → **Agregar**.
+5. **Autoriza.** Elige la función `autorizar` arriba, toca **Ejecutar** y acepta los permisos (verás la misma advertencia de "app no verificada" que al instalar).
+6. **Publica el receptor.** *Implementar → Nueva implementación → App web → Ejecutar como: Yo → Quién tiene acceso: **Cualquier usuario*** → Implementar → copia la **URL de la app web**. Es seguro: el receptor no guarda nada y tu app solo acepta mensajes con un secreto que se genera al conectar.
+7. **Conecta.** En tu app, **Ajustes → Telegram**: pega el token y la URL del receptor y toca **Conectar**. Envía al bot el código que aparece (o toca **Abrir Telegram**) y luego **Ya lo envié**.
+
+Desde ese momento el bot solo atiende a tu chat. Para desconectarlo: **Ajustes → Telegram → Desconectar**.

diff --git a/docs/actualizar.md b/docs/actualizar.md
@@ -1,0 +1,16 @@
+# Actualizar a una versión nueva
+
+Tu copia no cambia sola: así nadie (ni el autor) puede modificar el código que corre en tu cuenta. Para saber si hay una versión nueva, toca **Ajustes → Acerca de → Buscar actualizaciones** (o mira las [novedades](../CHANGELOG.md)).
+
+## Vía plantilla
+
+1. **Copia la plantilla nueva** ([Hacer una copia](https://docs.google.com/spreadsheets/d/ID_PLANTILLA/copy)) y **publícala** como la primera vez (menú **💸 Finanzas → Cómo publicar mi app**).
+2. **Abre la app nueva** y, en el asistente, toca **Importar mis datos**. Pega el enlace de tu hoja anterior. Se copian tus cuentas, categorías, movimientos, divisiones, reglas, presupuestos, pagos fijos y estados de cuenta, además de tu nombre, tipo de cambio y horarios. Tu hoja anterior no cambia.
+3. **Apaga la app anterior:** en ella, **Ajustes → Lectura de correos → Frecuencia: Apagada → Guardar**, y **Ajustes → Telegram → Desconectar**. Si no, las dos apps leerían los mismos correos.
+4. **Activa la nueva:** **Ajustes → Lectura de correos** y, si usas el bot, cambia la biblioteca de tu receptor por el ID de la app nueva ([telegram.md](telegram.md), pasos 2 y 4) y vuelve a conectar.
+
+No se copian el registro de errores, los correos "no leídos" ni la conexión del bot. Los correos ya importados no se duplican cuando vuelves a activar la lectura.
+
+## Vía desarrollador
+
+`git pull`, `npm install` y `npm run deploy` (más `autorizarPermisos` si el CHANGELOG pide permisos nuevos).

diff --git a/docs/privacidad.md b/docs/privacidad.md
@@ -18,6 +18,12 @@
 - El token del bot, el secreto y tu chat se guardan solo en las propiedades del script de tu app, nunca en la hoja ni en el repositorio.
 - **Desconectar** en Ajustes borra el webhook, el token y el chat.
 
+## Versión y plantilla (v0.7)
+
+- Solo cuando tocas **Ajustes → Buscar actualizaciones**, la app lee el `package.json` público del repositorio en GitHub para saber si hay una versión nueva. No consulta nada por su cuenta y no envía ningún dato tuyo.
+- La plantilla no tiene datos ni configuración: tu copia empieza vacía y su código es tuyo. Nadie más puede cambiarlo ni abrir tu app.
+- Importar datos lee tu hoja anterior desde tu propia cuenta; nada sale de Google.
+
 ## Próximas versiones
 
 - **v0.4 (Gemini):** audios, fotos de boletas y algunos textos se enviarán a la API de Gemini con **tu** clave. En el nivel gratuito, Google puede usar ese contenido para mejorar sus productos; para datos reales se recomienda el nivel de pago con un tope de gasto.
